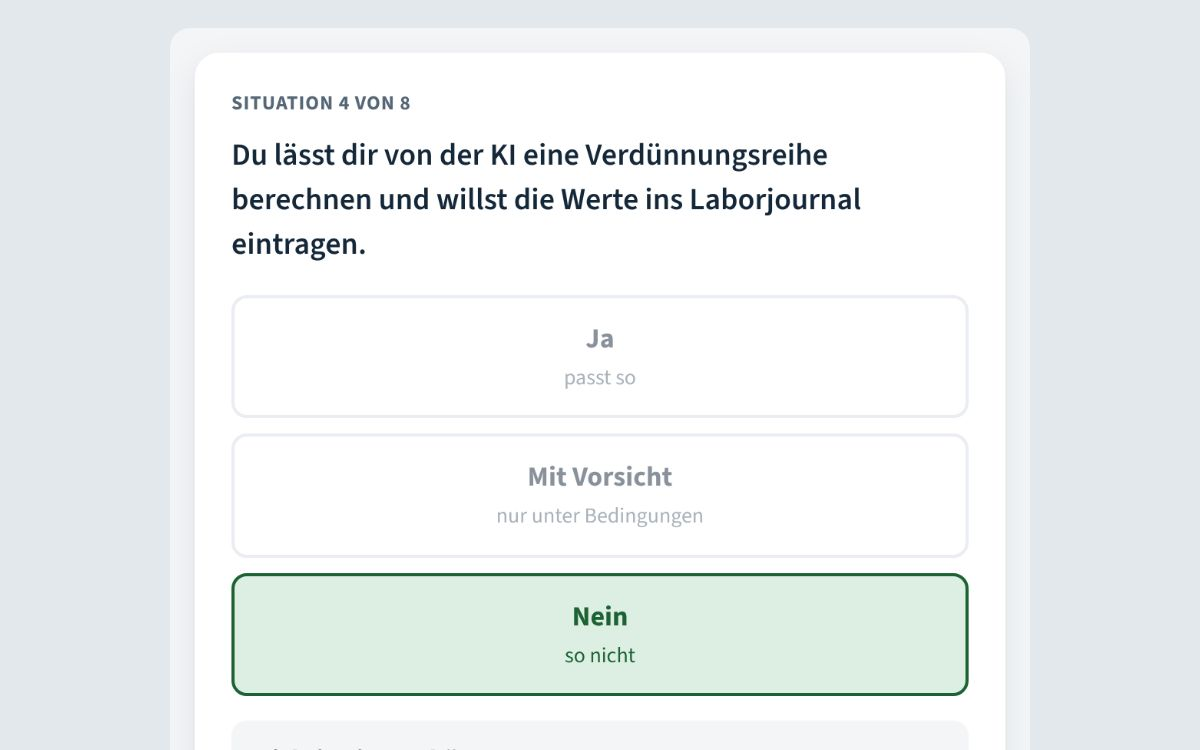
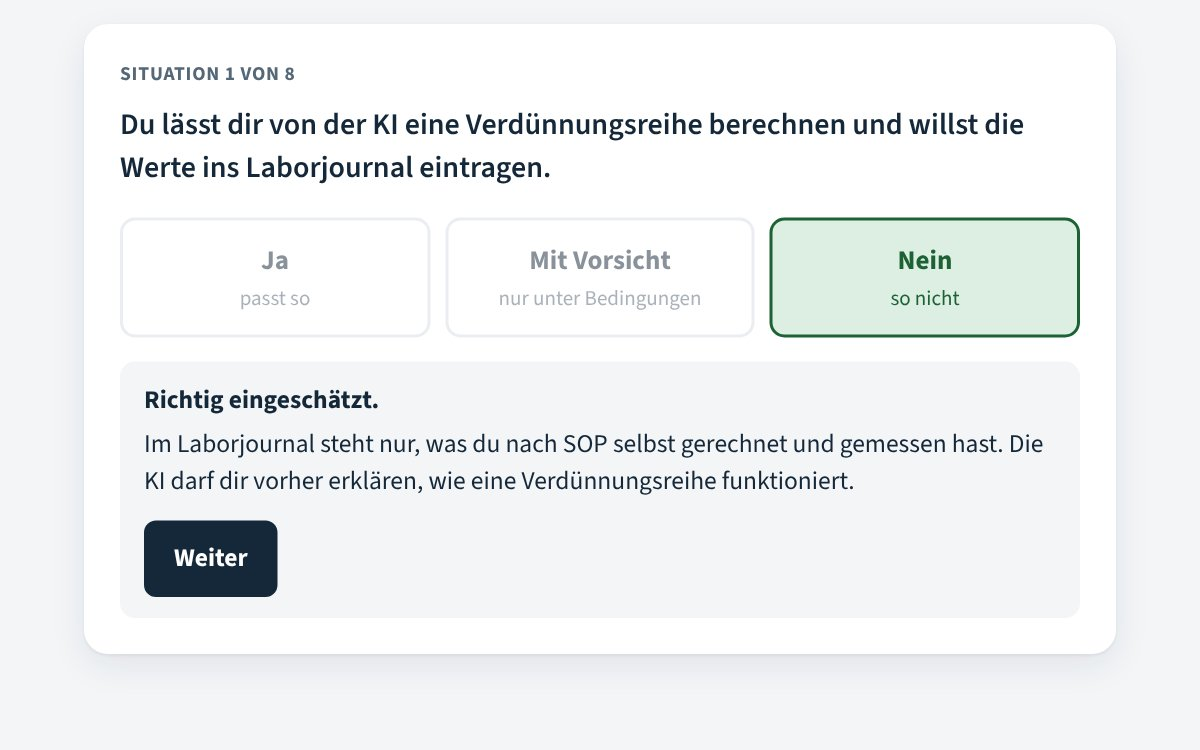
Roche: KI-Check startet im Labor, Titel auf QA Training; Handy-Ausschnitt unsereklasse
Claude-Session: https://claude.ai/code/session_014XkfFDuSjJmJmkreTr4ADN

diff --git a/roche/ki-check.html b/roche/ki-check.html
@@ -39,8 +39,8 @@ button{font:inherit}
 </head>
 <body>
 <div class="wrap">
-  <h1>KI-Check für Lernende</h1>
-  <p class="sub">Prototyp: Darf ich hier KI nutzen? Acht Situationen aus dem Alltag in der Lehre, jeweils mit kurzer Begründung.</p>
+  <h1>KI-Check</h1>
+  <p class="sub">Prototyp: Darf ich hier KI nutzen? Acht Situationen aus dem Arbeitsalltag in Labor und Büro, jeweils mit kurzer Begründung.</p>
   <div class="card" id="card" aria-live="polite"></div>
   <p class="note">Unabhängiger Prototyp mit Beispielinhalt, nicht von Roche. Die verbindlichen Regeln würden aus den Richtlinien des Betriebs übernommen.</p>
 </div>
@@ -48,20 +48,20 @@ button{font:inherit}
 (function(){
   if(location.search.indexOf('embed')>-1)document.documentElement.classList.add('embed');
   var C=[
-    ["Du lässt dir von der KI erklären, was eine Fehlermeldung allgemein bedeutet. Deinen Code kopierst du nicht hinein.","ja","Gute Nutzung. Du verstehst die Meldung und behebst den Fehler danach selbst. So lernst du dabei."],
-    ["Du kopierst eine Liste mit Namen und Personalnummern von Mitarbeitenden in einen öffentlichen KI-Chat, um sie sortieren zu lassen.","nein","Personaldaten bearbeitest du nur mit Berechtigung, und in einen öffentlichen KI-Chat gehören sie nie. Zum Sortieren reicht eine Tabelle."],
-    ["Du willst dir einen Abschnitt aus dem Code deines Teams erklären lassen. Der Betrieb hat dafür ein KI-Werkzeug freigegeben.","teil","Das freigegebene Werkzeug ist der richtige Ort. Kläre aber zuerst, ob dieser Code dort verwendet werden darf. Im Zweifel fragst du nach."],
     ["Du lässt dir von der KI eine Verdünnungsreihe berechnen und willst die Werte ins Laborjournal eintragen.","nein","Im Laborjournal steht nur, was du nach SOP selbst gerechnet und gemessen hast. Die KI darf dir vorher erklären, wie eine Verdünnungsreihe funktioniert."],
-    ["Du übst für eine Prüfung in der Berufsfachschule und lässt dir von der KI zehn Übungsfragen stellen.","ja","Sehr gut. Die KI als Übungspartnerin hilft beim Lernen. Prüf aber die Antworten, auch KI macht Fehler."],
-    ["Für die Lerndokumentation schreibt die KI deinen ganzen Wochenbericht.","nein","Die Lerndokumentation zeigt, was du gelernt hast. Wenn die KI sie schreibt, zeigt sie das nicht mehr. Ideen sammeln oder die Rechtschreibung prüfen lassen ist in Ordnung."],
+    ["Du lässt dir von der KI erklären, was eine Fehlermeldung allgemein bedeutet. Deinen Code oder deine Daten kopierst du nicht hinein.","ja","Gute Nutzung. Du verstehst die Meldung und behebst den Fehler danach selbst."],
+    ["Du kopierst eine Liste mit Namen und Personalnummern von Mitarbeitenden in einen öffentlichen KI-Chat, um sie sortieren zu lassen.","nein","Personaldaten bearbeitest du nur mit Berechtigung, und in einen öffentlichen KI-Chat gehören sie nie. Zum Sortieren reicht eine Tabelle."],
+    ["Du willst dir einen internen Ablauf erklären lassen. Der Betrieb hat dafür ein KI-Werkzeug freigegeben.","teil","Das freigegebene Werkzeug ist der richtige Ort. Kläre aber zuerst, ob das Dokument dort verwendet werden darf. Im Zweifel fragst du nach."],
+    ["Du bereitest dich auf eine interne Schulung vor und lässt dir von der KI zehn Übungsfragen stellen.","ja","Sehr gut. Die KI als Übungspartnerin hilft beim Lernen. Prüf aber die Antworten, auch KI macht Fehler."],
+    ["Für deinen Wochenbericht schreibt die KI den ganzen Text.","nein","Der Bericht soll zeigen, was du gemacht und gelernt hast. Ideen sammeln oder die Rechtschreibung prüfen lassen ist in Ordnung."],
     ["Du schreibst eine E-Mail an ein Projektteam im Ausland. Mit dem KI-Werkzeug, das der Betrieb freigegeben hat, übersetzt du sie ins Englische und liest sie vor dem Senden durch.","ja","In Ordnung. Du nutzt ein freigegebenes Werkzeug und bleibst für den Inhalt verantwortlich. Darum ist das Durchlesen vor dem Senden wichtig."],
-    ["Die KI schlägt eine Lösung vor, die du nicht verstehst. Du gibst sie trotzdem ab, weil sie funktioniert.","nein","Funktionieren reicht nicht. Lass dir die Lösung Schritt für Schritt erklären, bis du sie selbst erklären kannst. Erst dann gibst du sie ab."]
+    ["Die KI schlägt eine Lösung vor, die du nicht verstehst. Du übernimmst sie trotzdem, weil sie funktioniert.","nein","Funktionieren reicht nicht. Lass dir die Lösung Schritt für Schritt erklären, bis du sie selbst erklären kannst."]
   ];
   var L={ja:["Ja","passt so"],teil:["Mit Vorsicht","nur unter Bedingungen"],nein:["Nein","so nicht"]};
   var i=0,score=0,card=document.getElementById('card');
   function later(id){setTimeout(function(){var el=document.getElementById(id);if(el)el.focus()},0)}
   function show(focus){
-    if(i>=C.length){card.innerHTML='<div class="count">Auswertung</div><p class="case" id="cs" tabindex="-1">'+score+' von '+C.length+' Situationen richtig eingeschätzt.</p><p>In einer echten Einheit würden die Lernenden danach eigene Regeln für den Umgang mit KI formulieren und mit den Richtlinien des Betriebs vergleichen.</p><button class="btn" id="re">Nochmals</button>';document.getElementById('re').onclick=function(){i=0;score=0;show(true)};later('cs');post();return}
+    if(i>=C.length){card.innerHTML='<div class="count">Auswertung</div><p class="case" id="cs" tabindex="-1">'+score+' von '+C.length+' Situationen richtig eingeschätzt.</p><p>In einer echten Einheit würden die Teilnehmenden danach eigene Regeln für den Umgang mit KI formulieren und mit den Richtlinien des Betriebs vergleichen.</p><button class="btn" id="re">Nochmals</button>';document.getElementById('re').onclick=function(){i=0;score=0;show(true)};later('cs');post();return}
     var c=C[i];
     card.innerHTML='<div class="count">Situation '+(i+1)+' von '+C.length+'</div><p class="case" id="cs" tabindex="-1">'+c[0]+'</p><div class="opts">'+['ja','teil','nein'].map(function(k){return '<button class="opt" data-k="'+k+'">'+L[k][0]+'<small>'+L[k][1]+'</small></button>'}).join('')+'</div><div class="fb" id="fb"></div>';
     [].forEach.call(card.querySelectorAll('.opt'),function(b){b.onclick=function(){

diff --git a/roche/index.html b/roche/index.html
@@ -340,7 +340,7 @@ footer p{max-width:none;margin:0}
     <div class="r-intro">
       <div>
         <p class="kicker">Bewerbung: Senior Learning Specialist im QA Training, Basel Drug Substance</p>
-        <h1>Vier Ideen für das Lernen bei Roche, aus meiner Praxis in der Erwachsenenbildung</h1>
+        <h1>Vier Ideen für das QA Training, aus meiner Praxis in der Erwachsenenbildung</h1>
         <ul class="points">
                     <li>Über 40 Weiterbildungen konzipiert, eine Lernplattform selbst gebaut, den Kompetenzstand eines Kollegiums überprüft</li>
                     <li>Alle vier Ideen setzen bei Schulungen im Arbeitsalltag an. Zwei davon könnt ihr als Prototyp ausprobieren</li>
@@ -413,7 +413,7 @@ footer p{max-width:none;margin:0}
         <div class="wie">
           <p class="lab">03 · Idee für Mitarbeitende im Labor, als Prototyp</p>
           <h2>KI-Check</h2>
-          <ul><li><b>Ausgangslage:</b> Oft ist unklar, was man mit KI darf, gerade bei Werten fürs Laborjournal (Datenintegrität).</li><li><b>Vorgehen:</b> Regeln mit den Verantwortlichen klären, daraus acht Fälle mit kurzer Begründung.</li><li><b>Mein Beitrag:</b> Prototyp mit Beispielen aus dem Labor gebaut. Die Fälle kämen aus euren Regeln.</li></ul>
+          <ul><li><b>Ausgangslage:</b> Oft ist unklar, was man mit KI darf, gerade bei Werten fürs Laborjournal (Datenintegrität).</li><li><b>Vorgehen:</b> Regeln mit den Verantwortlichen klären, daraus acht Fälle mit kurzer Begründung.</li><li><b>Mein Beitrag:</b> Prototyp mit Beispielen aus Labor und Büro gebaut. Die Fälle kämen aus euren Regeln.</li></ul>
           <figure><picture><source media="(max-width:600px)" srcset="../img/roche-ki-m.jpg"><img class="shot m-auto fade" src="../img/roche-ki.jpg" alt="Prototyp KI-Check: Situation mit einer Verdünnungsreihe"></picture><figcaption><b>Prototyp.</b> Darf ein Wert aus der KI ins Laborjournal? Nein, die Begründung steht gleich darunter.</figcaption></figure>
           <a class="btn primary" href="#proto-stage" data-proto="ki">Prototyp ausprobieren</a>
         </div>
@@ -447,10 +447,10 @@ footer p{max-width:none;margin:0}
       <div class="stage" id="proto-stage">
         <div class="tabs" role="tablist" aria-label="Prototypen">
           <button class="tab" role="tab" id="tab-ki" aria-selected="true" aria-controls="screen" data-p="ki">KI-Check<small>Darf ich hier KI nutzen?</small></button>
-          <button class="tab" role="tab" id="tab-fach" aria-selected="false" tabindex="-1" aria-controls="screen" data-p="fach">Fachbegriff-Trainer<small>Labor, Informatik, KV</small></button>
+          <button class="tab" role="tab" id="tab-fach" aria-selected="false" tabindex="-1" aria-controls="screen" data-p="fach">Fachbegriff-Trainer<small>Labor, weitere Bereiche möglich</small></button>
         </div>
         <div class="screen" id="screen" role="tabpanel" aria-labelledby="tab-ki" tabindex="-1"><iframe id="pframe" src="ki-check.html?embed" title="Prototyp KI-Check"></iframe></div>
-        <div class="stage-foot"><p id="phint">Acht Situationen aus dem Alltag in der Lehre, jeweils mit kurzer Begründung.</p><a id="popen" href="ki-check.html" target="_blank" rel="noopener">In neuem Fenster öffnen</a></div>
+        <div class="stage-foot"><p id="phint">Acht Situationen aus dem Arbeitsalltag in Labor und Büro, jeweils mit kurzer Begründung.</p><a id="popen" href="ki-check.html" target="_blank" rel="noopener">In neuem Fenster öffnen</a></div>
       </div>
     </div>
   </section>
@@ -478,7 +478,7 @@ footer p{max-width:none;margin:0}
 
 <script>
 (function(){
-  var P={fach:{src:'fachbegriffe.html',title:'Prototyp Fachbegriff-Trainer',hint:'Acht Begriffe in drei Stufen, wählbar nach Bereich. Am besten mit Ton.'},ki:{src:'ki-check.html',title:'Prototyp KI-Check',hint:'Acht Situationen aus dem Alltag in der Lehre, jeweils mit kurzer Begründung.'}};
+  var P={fach:{src:'fachbegriffe.html',title:'Prototyp Fachbegriff-Trainer',hint:'Acht Begriffe in drei Stufen, wählbar nach Bereich. Am besten mit Ton.'},ki:{src:'ki-check.html',title:'Prototyp KI-Check',hint:'Acht Situationen aus dem Arbeitsalltag in Labor und Büro, jeweils mit kurzer Begründung.'}};
   var tabs=[].slice.call(document.querySelectorAll('#prototypen .tab'));
   var screen=document.getElementById('screen'),frames={ki:document.getElementById('pframe')},hs={},cur='ki';
   function size(){if(hs[cur])screen.style.height=Math.max(320,Math.min(1100,hs[cur]+8))+'px'}
